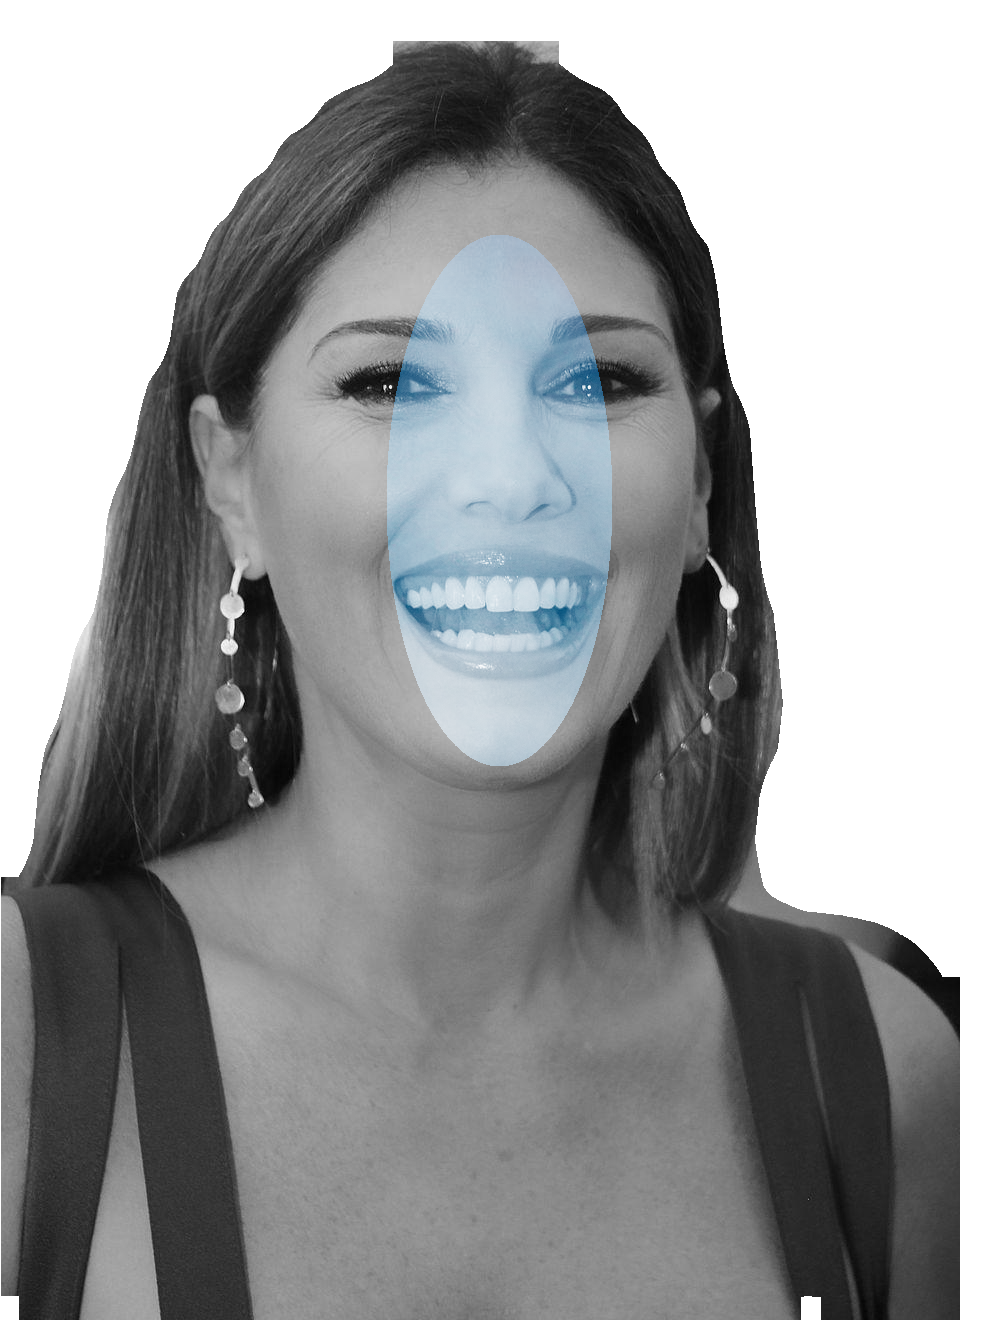
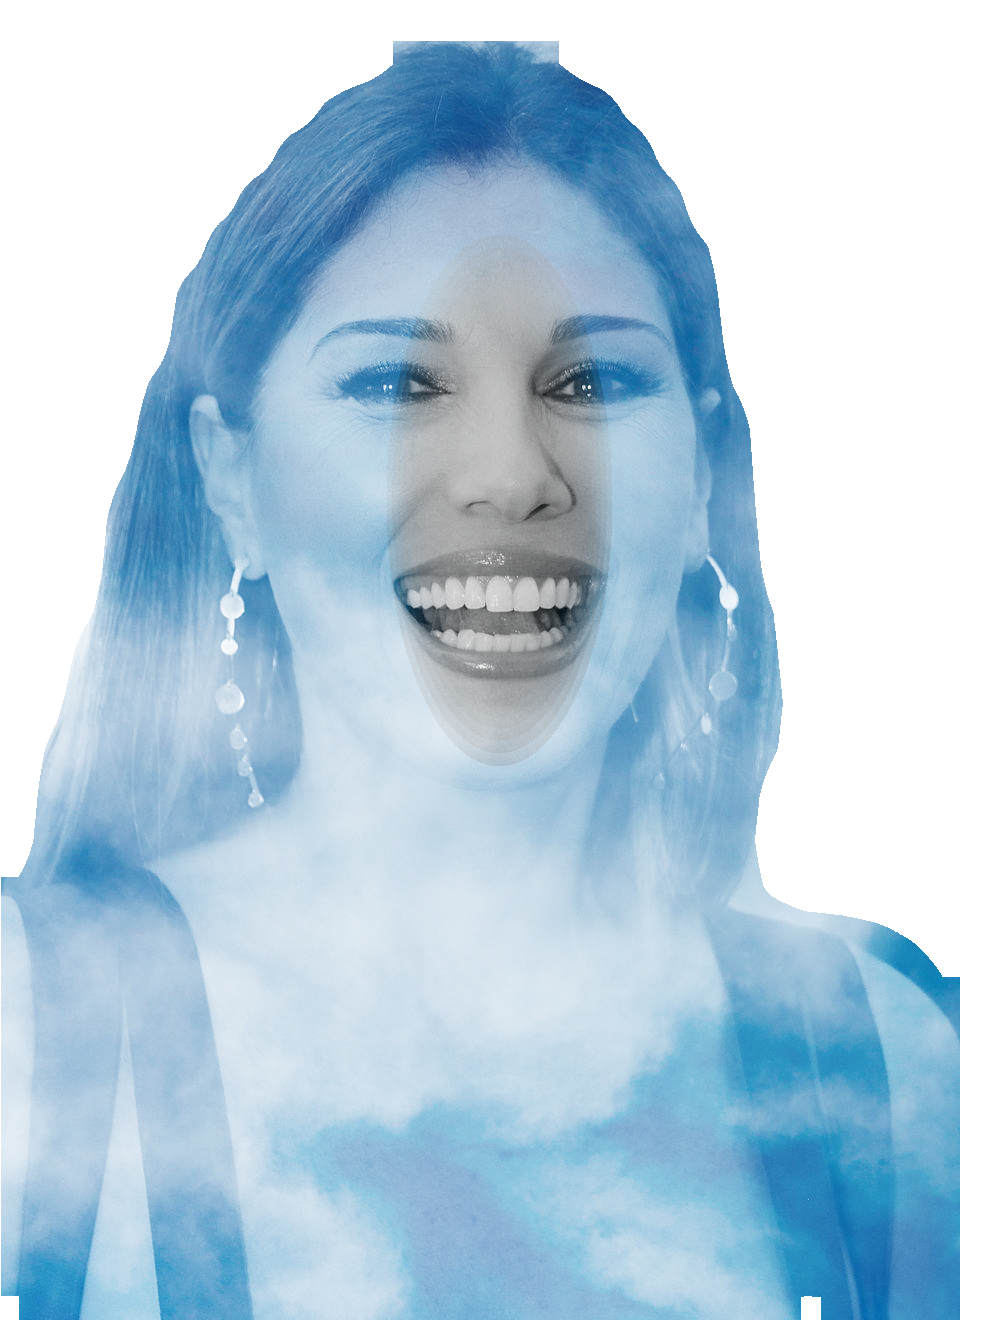
modified:   dbexpos_image.png 	modified:   visualize.py

diff --git a/visualize.py b/visualize.py
@@ -171,7 +171,6 @@ def screen(img_1,img_2):
     return img
 def nosefilter(img):
     scale=1
-    new_img = np.zeros((img.shape[0],img.shape[1],3))
     while scale>0.5:
         Leye_x = 386
         Leye_y = 234
@@ -184,9 +183,9 @@ def nosefilter(img):
         for y in range(img.shape[0]):
             for x in range(img.shape[1]):
                 if (x-center_x)**2/radius_x**2+(y-center_y)**2/radius_y**2<1:
-                    new_img[y][x]=img[y][x]*0.75
+                    img[y][x]=img[y][x]*0.75
         scale = scale * 0.95
-    return new_img
+    return img
 def gray3channel(img):
     height,width = img.shape[:2]
     new_img = np.zeros((height,width,3))
